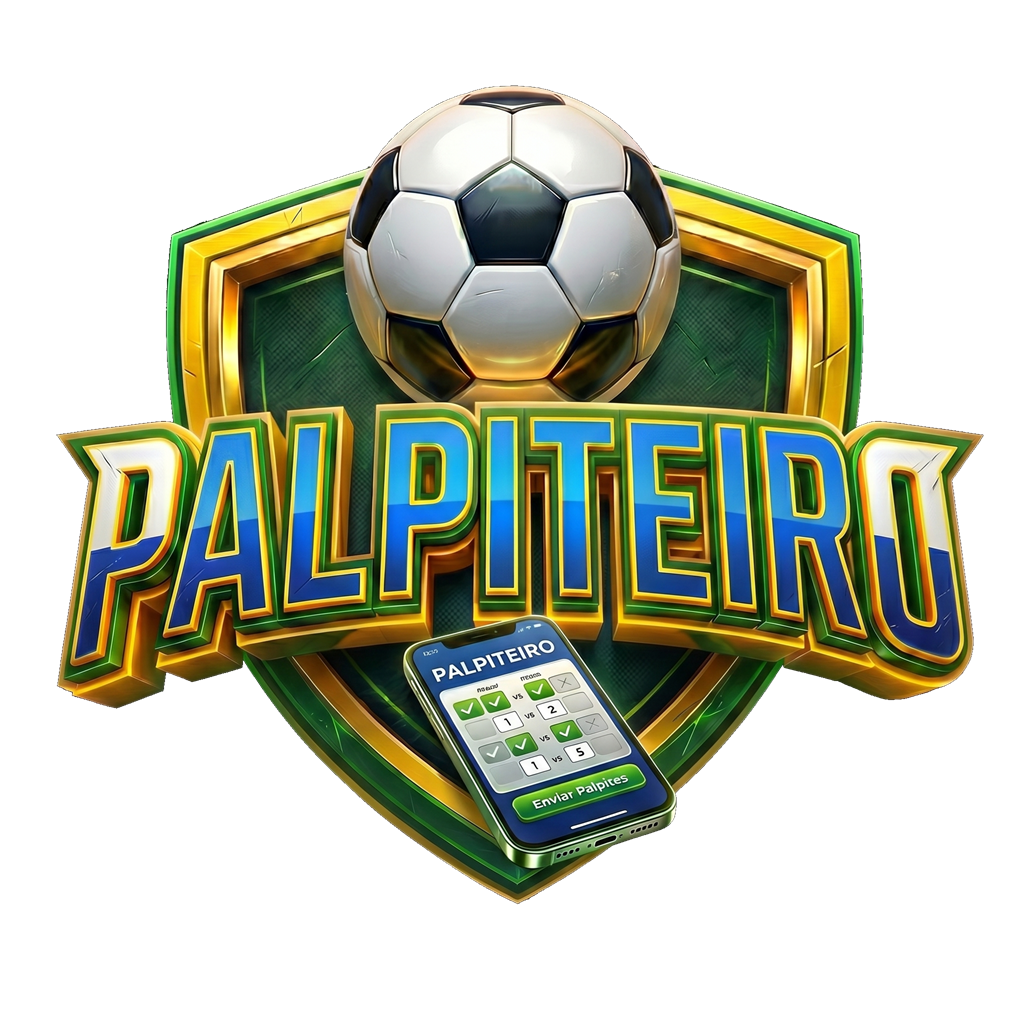
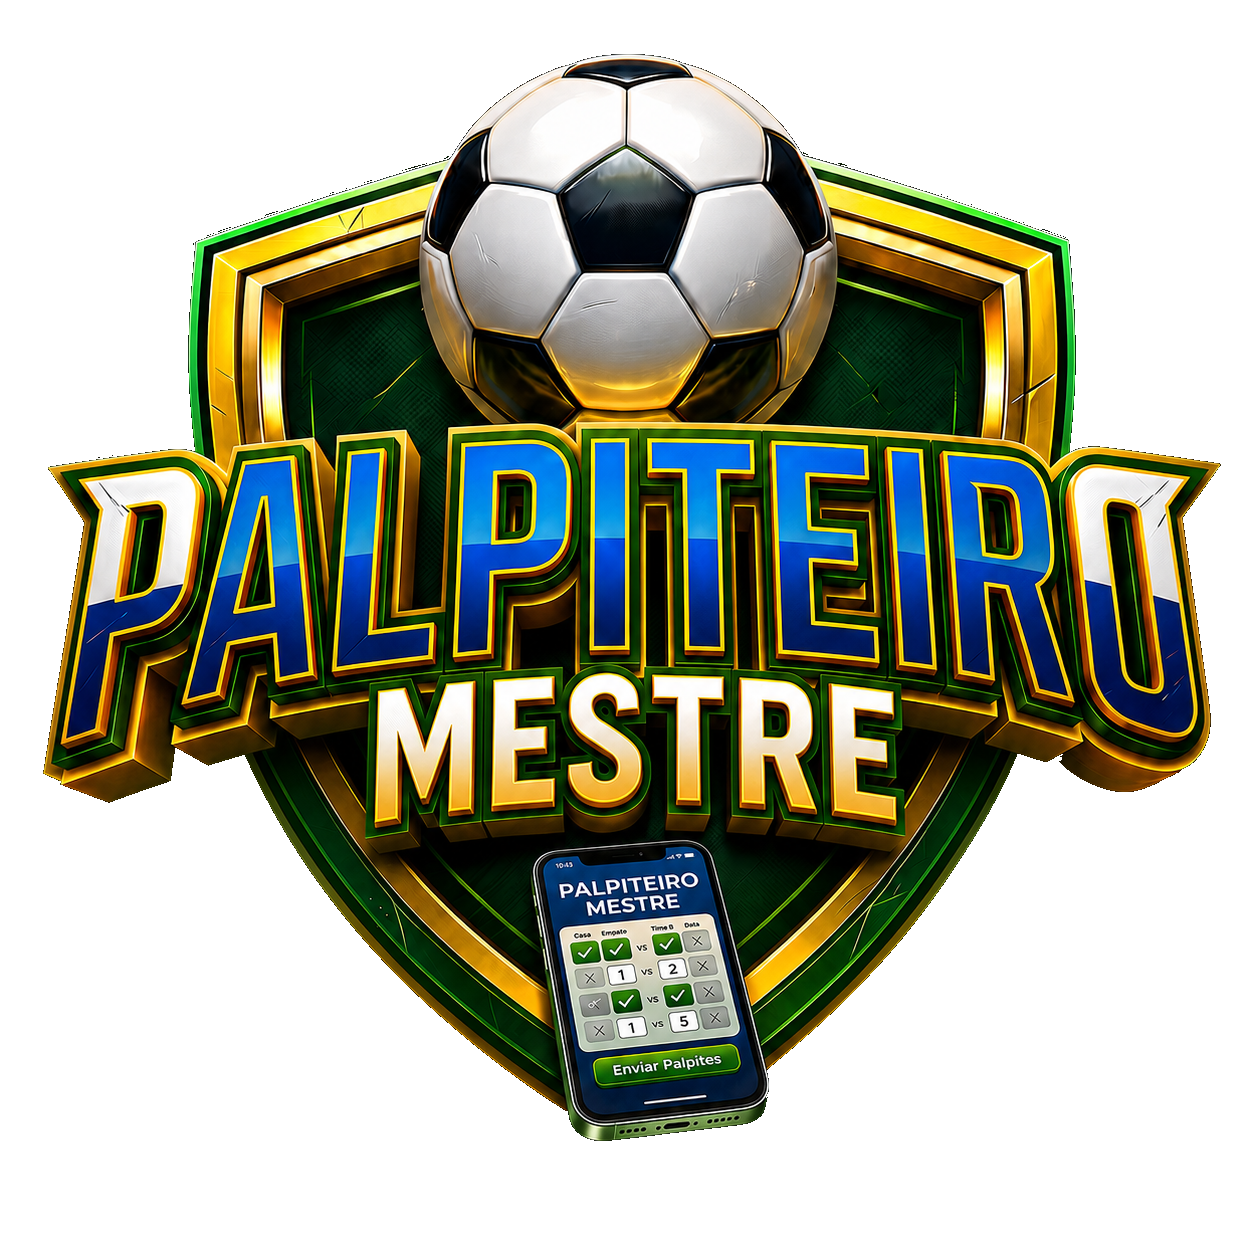
feat: implement API service with retry logic and initialize app structure with new pages and layout components

diff --git a/pages/LeagueDetailsBrasileirao.tsx b/pages/LeagueDetailsBrasileirao.tsx
@@ -464,6 +464,7 @@ export const LeagueDetailsBrasileirao: React.FC = () => {
     const [loadingStats, setLoadingStats] = useState(false);
     const [selectedMatchForStats, setSelectedMatchForStats] = useState<string | number | null>(null);
     const [apiMatchStats, setApiMatchStats] = useState<any>(null);
+    const [statsStandings, setStatsStandings] = useState<any[]>([]);
 
 
     const [teamHistoryData, setTeamHistoryData] = useState<any[]>([]);
@@ -1106,7 +1107,12 @@ export const LeagueDetailsBrasileirao: React.FC = () => {
         queryFn: async () => {
             if (!selectedMatchForStats || !league) return null;
             const stats = await api.matches.getStats(String(selectedMatchForStats), String(league.id), 'brasileirao');
-            return { stats, history: [] };
+            let standings: any[] = [];
+            const match = matches.find(m => m.id == selectedMatchForStats);
+            if (match && (match.championship === 'brasileirao' || !match.championship)) {
+                standings = await api.brasileiraoTeams.getStandingsForTeams([match.home_team_id, match.away_team_id]);
+            }
+            return { stats, history: [], standings };
         },
         enabled: !!selectedMatchForStats && !!league,
         staleTime: isLockedStats ? 60 * 60 * 1000 : 30 * 1000,
@@ -1115,9 +1121,15 @@ export const LeagueDetailsBrasileirao: React.FC = () => {
     useEffect(() => {
         if (statsData) {
             setApiMatchStats(statsData.stats);
+            if (statsData.standings) {
+                setStatsStandings(statsData.standings);
+            } else {
+                setStatsStandings([]);
+            }
             setLoadingStats(false);
         } else if (!isLoadingStatsQuery) {
             setApiMatchStats(null);
+            setStatsStandings([]);
             setLoadingStats(false);
         } else {
             setLoadingStats(true);
@@ -2255,7 +2267,7 @@ export const LeagueDetailsBrasileirao: React.FC = () => {
                                 const isProUser = !!currentUser?.isPro;
 
                                 if (!mLocked) {
-                                    if (!isProUser && !hasWatchedStatsAd && Capacitor.isNativePlatform()) {
+                                    if (false && !isProUser && !hasWatchedStatsAd && Capacitor.isNativePlatform()) {
                                         setPendingStatsModal(String(m.id));
                                         try {
                                             if (!adMobModuleRef.current) {
@@ -2346,13 +2358,7 @@ export const LeagueDetailsBrasileirao: React.FC = () => {
                                             <div className="flex items-center gap-2" onClick={(e) => e.stopPropagation()}><input id={`home-${String(String(match.id))}`} name={`home-${String(String(match.id))}`} type="text" inputMode="numeric" maxLength={2} autoComplete="off" disabled={locked} value={homeValue} onChange={(e) => handleScoreChange(String(String(match.id)), 'home', e.target.value, userPred)} placeholder="-" className={`w-14 h-12 text-center border rounded-lg font-bold text-xl md:text-2xl focus:border-brasil-blue focus:ring-1 focus:ring-brasil-blue outline-none transition-all ${locked ? 'bg-gray-800 text-gray-500 border-gray-700 cursor-pointer' : 'bg-gray-700 border-gray-600 text-white'}`} /><span className="text-gray-300 dark:text-gray-600 text-sm font-bold">X</span><input id={`away-${String(String(match.id))}`} name={`away-${String(String(match.id))}`} type="text" inputMode="numeric" maxLength={2} autoComplete="off" disabled={locked} value={awayValue} onChange={(e) => handleScoreChange(String(String(match.id)), 'away', e.target.value, userPred)} placeholder="-" className={`w-14 h-12 text-center border rounded-lg font-bold text-xl md:text-2xl focus:border-brasil-blue focus:ring-1 focus:ring-brasil-blue outline-none transition-all ${locked ? 'bg-gray-800 text-gray-500 border-gray-700 cursor-pointer' : 'bg-gray-700 border-gray-600 text-white'}`} /></div>
                                             {stats && <span className="text-[10px] font-bold text-gray-400 mt-3">{stats.draw_pct}% Empate</span>}
 
-                                            {/* Dynamic Save Button */}
-                                            <div className={`transition-all duration-300 overflow-hidden flex justify-center w-full ${targetMatchForButton === String(match.id) ? 'max-h-20 mt-3 opacity-100' : 'max-h-0 mt-0 opacity-0'}`}>
-                                                <button onClick={(e) => { e.stopPropagation(); handleSaveAll(); }} disabled={isSavingPalpites} className="bg-brasil-green hover:bg-green-700 text-white px-6 py-3 rounded-full shadow-md font-bold text-base flex items-center justify-center gap-2 transition-all active:scale-95 border border-green-400 whitespace-nowrap min-w-[160px]">
-                                                    {isSavingPalpites ? <Loader2 size={18} className="animate-spin" /> : <Save size={18} />}
-                                                    <span>{isSavingPalpites ? 'Salvando...' : `Salvar ${Object.values(pendingEdits).filter(val => val.home !== '' && val.away !== '').length} jogo(s)`}</span>
-                                                </button>
-                                            </div>
+
 
                                         </div>
                                         <div className="flex flex-col items-center justify-center w-1/3 flex-1 min-w-0 gap-1.5">
@@ -2360,6 +2366,14 @@ export const LeagueDetailsBrasileirao: React.FC = () => {
                                             <span className="text-center font-black text-[10px] min-[360px]:text-xs min-[380px]:text-sm md:text-base text-gray-900 dark:text-gray-100 leading-tight truncate w-full px-1" title={getTeamNameForDisplay(match.away_team_id)}>{getTeamNameForDisplay(match.away_team_id)}</span>
                                             {stats && <span className="text-[10px] font-bold text-gray-500 bg-gray-100 dark:bg-gray-700 px-1.5 py-0.5 rounded shrink-0">{stats.away_win_pct}%</span>}
                                         </div>
+                                    </div>
+                                    
+                                    {/* Dynamic Save Button */}
+                                    <div className={`transition-all duration-300 overflow-hidden flex justify-center w-full ${targetMatchForButton === String(match.id) ? 'max-h-20 mb-3 opacity-100' : 'max-h-0 opacity-0'}`}>
+                                        <button onClick={(e) => { e.stopPropagation(); handleSaveAll(); }} disabled={isSavingPalpites} className="bg-brasil-green hover:bg-green-700 text-white px-6 py-3 rounded-full shadow-md font-bold text-base flex items-center justify-center gap-2 transition-all active:scale-95 border border-green-400 whitespace-nowrap min-w-[160px]">
+                                            {isSavingPalpites ? <Loader2 size={18} className="animate-spin" /> : <Save size={18} />}
+                                            <span>{isSavingPalpites ? 'Salvando...' : `Salvar ${Object.values(pendingEdits).filter(val => val.home !== '' && val.away !== '').length} jogo(s)`}</span>
+                                        </button>
                                     </div>
                                     {
                                         (match.status === MatchStatus.FINISHED || match.status === MatchStatus.IN_PROGRESS) && match.home_score !== null && match.away_score !== null && (
@@ -2805,6 +2819,29 @@ export const LeagueDetailsBrasileirao: React.FC = () => {
                                                     ) : (
                                                         <>
                                                             <div className="space-y-4">
+                                                                {/* Standings */}
+                                                                {statsStandings && statsStandings.length > 0 && (
+                                                                    <div className="bg-white dark:bg-gray-700/60 rounded-xl p-3 border border-gray-100 dark:border-gray-600 shadow-sm flex items-center justify-between text-center gap-2">
+                                                                        {(() => {
+                                                                            const homeStanding = statsStandings.find(s => String(s.team_id) === String(sm.home_team_id));
+                                                                            const awayStanding = statsStandings.find(s => String(s.team_id) === String(sm.away_team_id));
+                                                                            return (
+                                                                                <>
+                                                                                    <div className="flex flex-col items-center flex-1">
+                                                                                        <span className="text-[10px] font-bold uppercase text-gray-400 dark:text-gray-500 mb-0.5">{homeStanding ? `${homeStanding.position}º Lugar` : '-'}</span>
+                                                                                        <span className="text-sm font-black text-brasil-green dark:text-green-400">{homeStanding ? `${homeStanding.points} pts` : '-'}</span>
+                                                                                    </div>
+                                                                                    <div className="w-px h-8 bg-gray-200 dark:bg-gray-600"></div>
+                                                                                    <div className="flex flex-col items-center flex-1">
+                                                                                        <span className="text-[10px] font-bold uppercase text-gray-400 dark:text-gray-500 mb-0.5">{awayStanding ? `${awayStanding.position}º Lugar` : '-'}</span>
+                                                                                        <span className="text-sm font-black text-brasil-green dark:text-green-400">{awayStanding ? `${awayStanding.points} pts` : '-'}</span>
+                                                                                    </div>
+                                                                                </>
+                                                                            );
+                                                                        })()}
+                                                                    </div>
+                                                                )}
+
                                                                 {/* Most Predicted Score */}
                                                                 <div className="bg-white dark:bg-gray-700/60 rounded-xl p-4 border border-gray-100 dark:border-gray-600 shadow-sm flex flex-col items-center justify-center text-center gap-3">
                                                                     <div className="flex flex-col items-center">

diff --git a/pages/Home.tsx b/pages/Home.tsx
@@ -9,9 +9,7 @@ export const Home: React.FC = () => {
   const navigate = useNavigate();
   const { currentUser, matches, leagues, brazilLeagues, currentTime, loading, invitations, respondToInvite, loginGoogle } = useStore();
   const [copied, setCopied] = useState(false);
-  const [showFloatingBanner, setShowFloatingBanner] = useState(() => {
-    return sessionStorage.getItem('hideHomeBanner') !== 'true';
-  });
+
 
   // AdMob Banner para a Home - Oculta se não estiver logado ou se for PRO
   const adMobRef = React.useRef<any>(null);
@@ -464,65 +462,7 @@ export const Home: React.FC = () => {
         <div className="w-full h-1 bg-gradient-to-r from-brasil-green via-brasil-yellow to-brasil-blue rounded-full opacity-30"></div>
       </div>
 
-      {/* Floating Banner */}
-      {showFloatingBanner && (
-        <div className="fixed bottom-24 md:bottom-8 left-4 right-4 md:left-1/2 md:-translate-x-1/2 z-50 w-auto md:w-full max-w-4xl lg:max-w-5xl animate-in slide-in-from-bottom-8 fade-in duration-500">
-          <div className="relative bg-white dark:bg-gray-800 rounded-2xl shadow-[0_10px_40px_-10px_rgba(0,0,0,0.3)] border-2 border-brasil-yellow dark:border-yellow-600 overflow-hidden flex flex-col md:flex-row items-center">
-            {/* Background pattern/gradient */}
-            <div className="absolute inset-0 bg-gradient-to-br from-yellow-50 to-green-50 dark:from-yellow-900/20 dark:to-green-900/20 opacity-50"></div>
 
-            <button
-              onClick={() => {
-                setShowFloatingBanner(false);
-                sessionStorage.setItem('hideHomeBanner', 'true');
-              }}
-              className="absolute top-2 right-2 p-1.5 bg-white/50 hover:bg-gray-200 dark:bg-gray-700/50 dark:hover:bg-gray-600 rounded-full text-gray-500 dark:text-gray-400 hover:text-red-500 transition-colors z-20 backdrop-blur-sm"
-            >
-              <X size={18} />
-            </button>
-
-            <div className="p-5 md:p-6 flex-1 relative z-10 w-full text-center md:text-left">
-              <h3 className="font-black text-gray-800 dark:text-white text-lg md:text-xl uppercase flex items-center justify-center md:justify-start gap-2 mb-1">
-                <Trophy size={20} className="text-brasil-yellow" />
-                Dê seu palpite!
-              </h3>
-              <p className="text-xs md:text-sm text-gray-600 dark:text-gray-300 font-medium">Crie ou participe de uma liga agora mesmo, escolha uma modalidade:</p>
-            </div>
-
-            <div className="flex flex-col lg:flex-row items-stretch lg:items-center w-full md:w-auto gap-3 p-4 pt-0 md:pt-4 relative z-10 justify-center">
-              <Link
-                to="/leagues"
-                className="flex items-center justify-center gap-2 px-4 py-3 bg-brasil-blue hover:bg-blue-800 text-white font-bold rounded-xl text-sm shadow-md transition-transform active:scale-95 border border-blue-400 whitespace-nowrap"
-              >
-                <Globe size={18} />
-                <div className="flex items-center text-left leading-none">
-                  <span className="uppercase text-sm font-black">Todos os Jogos da Copa</span>
-                </div>
-              </Link>
-              <Link
-                to="/brazil-games"
-                className="flex items-center justify-center gap-2 px-4 py-3 bg-brasil-green hover:bg-green-700 text-white font-bold rounded-xl text-sm shadow-md transition-transform active:scale-95 border border-green-400 whitespace-nowrap"
-              >
-                <span className="text-xl leading-none">🇧🇷</span>
-                <div className="flex items-center text-left leading-none">
-                  <span className="uppercase text-sm font-black">Jogos do Brasil</span>
-                </div>
-              </Link>
-              {!loading && !currentUser.isPro && (
-                <Link
-                  to="/seja-pro"
-                  className="flex items-center justify-center gap-2 px-4 py-3 bg-gradient-to-r from-yellow-200 to-amber-300 hover:from-yellow-300 hover:to-amber-400 text-gray-900 font-bold rounded-xl text-sm shadow-sm transition-transform active:scale-95 border border-yellow-300 whitespace-nowrap"
-                >
-                  <span className="text-xl leading-none">⭐</span>
-                  <div className="flex items-center text-left leading-none">
-                    <span className="uppercase text-sm font-black">Seja PRO</span>
-                  </div>
-                </Link>
-              )}
-            </div>
-          </div>
-        </div>
-      )}
     </div>
   );
 };

diff --git a/pages/HomeBrasileirao.tsx b/pages/HomeBrasileirao.tsx
@@ -443,11 +443,11 @@ export const HomeBrasileirao: React.FC = () => {
       </div>
 
       {/* Floating Banner */}
-      {showFloatingBanner && (
+      {showFloatingBanner && !currentUser.isPro && (
         <div className="fixed bottom-24 md:bottom-8 left-4 right-4 md:left-1/2 md:-translate-x-1/2 z-50 w-auto md:w-full max-w-4xl lg:max-w-5xl animate-in slide-in-from-bottom-8 fade-in duration-500">
-          <div className="relative bg-white dark:bg-gray-800 rounded-2xl shadow-[0_10px_40px_-10px_rgba(0,0,0,0.3)] border-2 border-brasil-yellow dark:border-yellow-600 overflow-hidden flex flex-col md:flex-row items-center">
+          <div className="relative bg-white dark:bg-gray-800 rounded-2xl shadow-[0_10px_40px_-10px_rgba(0,0,0,0.3)] border-2 border-amber-400 dark:border-amber-600 overflow-hidden flex flex-col md:flex-row items-center">
             {/* Background pattern/gradient */}
-            <div className="absolute inset-0 bg-gradient-to-br from-yellow-50 to-green-50 dark:from-yellow-900/20 dark:to-green-900/20 opacity-50"></div>
+            <div className="absolute inset-0 bg-gradient-to-br from-yellow-50 to-amber-50 dark:from-yellow-900/20 dark:to-amber-900/20 opacity-50"></div>
 
             <button
               onClick={() => {
@@ -461,33 +461,22 @@ export const HomeBrasileirao: React.FC = () => {
 
             <div className="p-5 md:p-6 flex-1 relative z-10 w-full text-center md:text-left">
               <h3 className="font-black text-gray-800 dark:text-white text-lg md:text-xl uppercase flex items-center justify-center md:justify-start gap-2 mb-1">
-                <Trophy size={20} className="text-brasil-yellow" />
-                Dê seu palpite!
+                <Trophy size={20} className="text-amber-500" />
+                Vantagens Exclusivas!
               </h3>
-              <p className="text-xs md:text-sm text-gray-600 dark:text-gray-300 font-medium">Crie ou participe de uma liga agora mesmo:</p>
+              <p className="text-xs md:text-sm text-gray-600 dark:text-gray-300 font-medium">Desbloqueie estatísticas e saia na frente nos seus palpites:</p>
             </div>
 
             <div className="flex flex-col lg:flex-row items-stretch lg:items-center w-full md:w-auto gap-3 p-4 pt-0 md:pt-4 relative z-10 justify-center">
               <Link
-                to="/leagues-brasileirao"
-                className="flex items-center justify-center gap-2 px-4 py-3 bg-brasil-blue hover:bg-blue-800 text-white font-bold rounded-xl text-sm shadow-md transition-transform active:scale-95 border border-blue-400 whitespace-nowrap"
+                to="/seja-pro"
+                className="flex items-center justify-center gap-2 px-6 py-3 bg-gradient-to-r from-yellow-200 to-amber-300 hover:from-yellow-300 hover:to-amber-400 text-gray-900 font-bold rounded-xl shadow-sm transition-transform active:scale-95 border border-yellow-300 whitespace-nowrap"
               >
-                <Globe size={18} />
+                <span className="text-xl leading-none">⭐</span>
                 <div className="flex items-center text-left leading-none">
-                  <span className="uppercase text-sm font-black">Confira as Competições</span>
+                  <span className="uppercase text-base font-black">Seja PRO</span>
                 </div>
               </Link>
-              {!loading && !currentUser.isPro && (
-                <Link
-                  to="/seja-pro"
-                  className="flex items-center justify-center gap-2 px-4 py-3 bg-gradient-to-r from-yellow-200 to-amber-300 hover:from-yellow-300 hover:to-amber-400 text-gray-900 font-bold rounded-xl text-sm shadow-sm transition-transform active:scale-95 border border-yellow-300 whitespace-nowrap"
-                >
-                  <span className="text-xl leading-none">⭐</span>
-                  <div className="flex items-center text-left leading-none">
-                    <span className="uppercase text-sm font-black">Seja PRO</span>
-                  </div>
-                </Link>
-              )}
             </div>
           </div>
         </div>

diff --git a/components/Layout.tsx b/components/Layout.tsx
@@ -90,9 +90,9 @@ export const Layout: React.FC<{ children: React.ReactNode }> = ({ children }) =>
   const isBrasileiraoMode = location.pathname.includes('brasileirao');
   const isHubMode = location.pathname === '/' || location.pathname === '/profile' || location.pathname === '/login';
   
-  let appName = 'Palpiteiro da Copa';
-  if (isHubMode) appName = 'PALPITEIRO';
-  else if (isBrasileiraoMode) appName = 'Palpiteiro do Brasileirão';
+  let appName = 'Palpiteiro Mestre';
+  if (isHubMode) appName = 'Palpiteiro Mestre';
+  else if (isBrasileiraoMode) appName = 'Palpiteiro Mestre';
 
   const [isMenuOpen, setIsMenuOpen] = useState(false);
   const [showNotifications, setShowNotifications] = useState(false);
@@ -550,13 +550,13 @@ export const Layout: React.FC<{ children: React.ReactNode }> = ({ children }) =>
               </div>
             </div>
             <div className="pt-8 border-t border-gray-100 dark:border-gray-700 text-center">
-              <p className="text-xs text-gray-400">© 2026 Palpiteiro. Todos os direitos reservados.</p>
+              <p className="text-xs text-gray-400">© 2026 Palpiteiro Mestre. Todos os direitos reservados.</p>
             </div>
           </div>
         </footer>
       ) : (
         <footer className="bg-gray-800 dark:bg-black text-gray-400 py-6 text-center text-sm transition-colors duration-300">
-          <p>© 2026 Palpiteiro.</p>
+          <p>© 2026 Palpiteiro Mestre.</p>
         </footer>
       )}
       

diff --git a/index.html b/index.html
@@ -23,7 +23,7 @@
   <link rel="apple-touch-icon" href="/apple-icon.png" />
   <meta name="apple-mobile-web-app-capable" content="yes">
   <meta name="apple-mobile-web-app-status-bar-style" content="black-translucent">
-  <meta name="apple-mobile-web-app-title" content="Palpiteiro 2026">
+  <meta name="apple-mobile-web-app-title" content="Palpiteiro Mestre">
   
   <meta name="mobile-web-app-capable" content="yes">
   <meta name="theme-color" content="#002776" />
@@ -34,8 +34,8 @@
   <meta name="robots" content="index, follow">
   <link rel="canonical" href="https://bolaodacopa2026.app/">
   <meta name="referrer" content="no-referrer-when-downgrade" />
-  <title>Palpiteiro da Copa 2026 - Tabela, Simulador e Gerenciador de Bolão</title>
-  <meta property="og:title" content="Bolão da Copa 2026">
+  <title>Palpiteiro Mestre - Gerenciador de Bolão</title>
+  <meta property="og:title" content="Palpiteiro Mestre - Gerenciador de Bolão">
   <meta property="og:description" content="Crie ligas de bolão da Copa do Mundo 2026 com amigos e faça seus palpites.">
   <meta property="og:url" content="https://bolaodacopa2026.app">
   <meta property="og:type" content="website">

diff --git a/services/api.ts b/services/api.ts
@@ -432,6 +432,17 @@ export const api = {
             );
             return (data as any[]) || [];
         },
+        getStandingsForTeams: async (teamIds: (number | string)[]) => {
+            const { data, error } = await supabase
+                .from('brasileirao_standings_view')
+                .select('team_id, position, points')
+                .in('team_id', teamIds.map(String));
+            if (error) {
+                console.error('Error fetching standings:', error);
+                return [];
+            }
+            return data;
+        },
     },
     brazilPlayers: {
         list: async () => {
